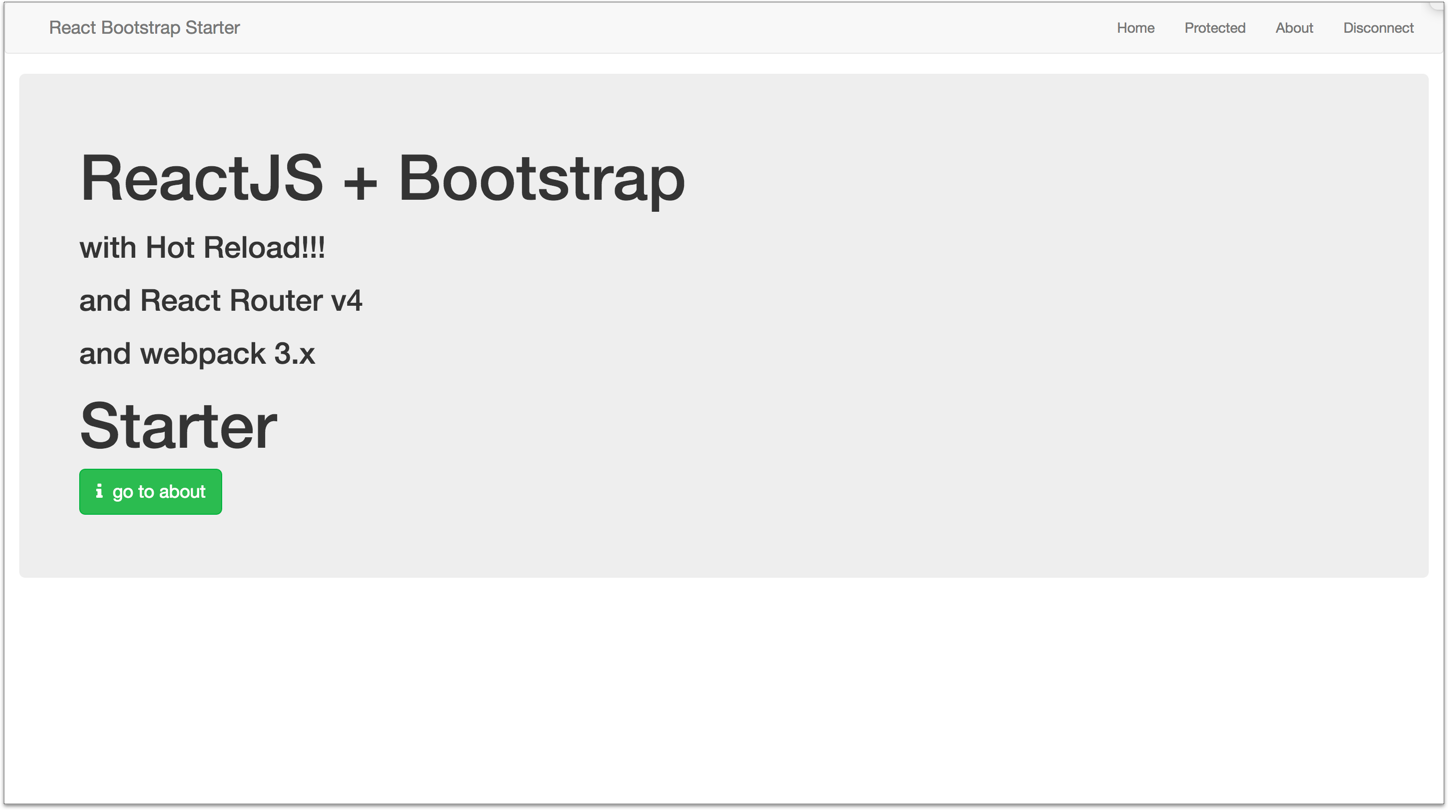
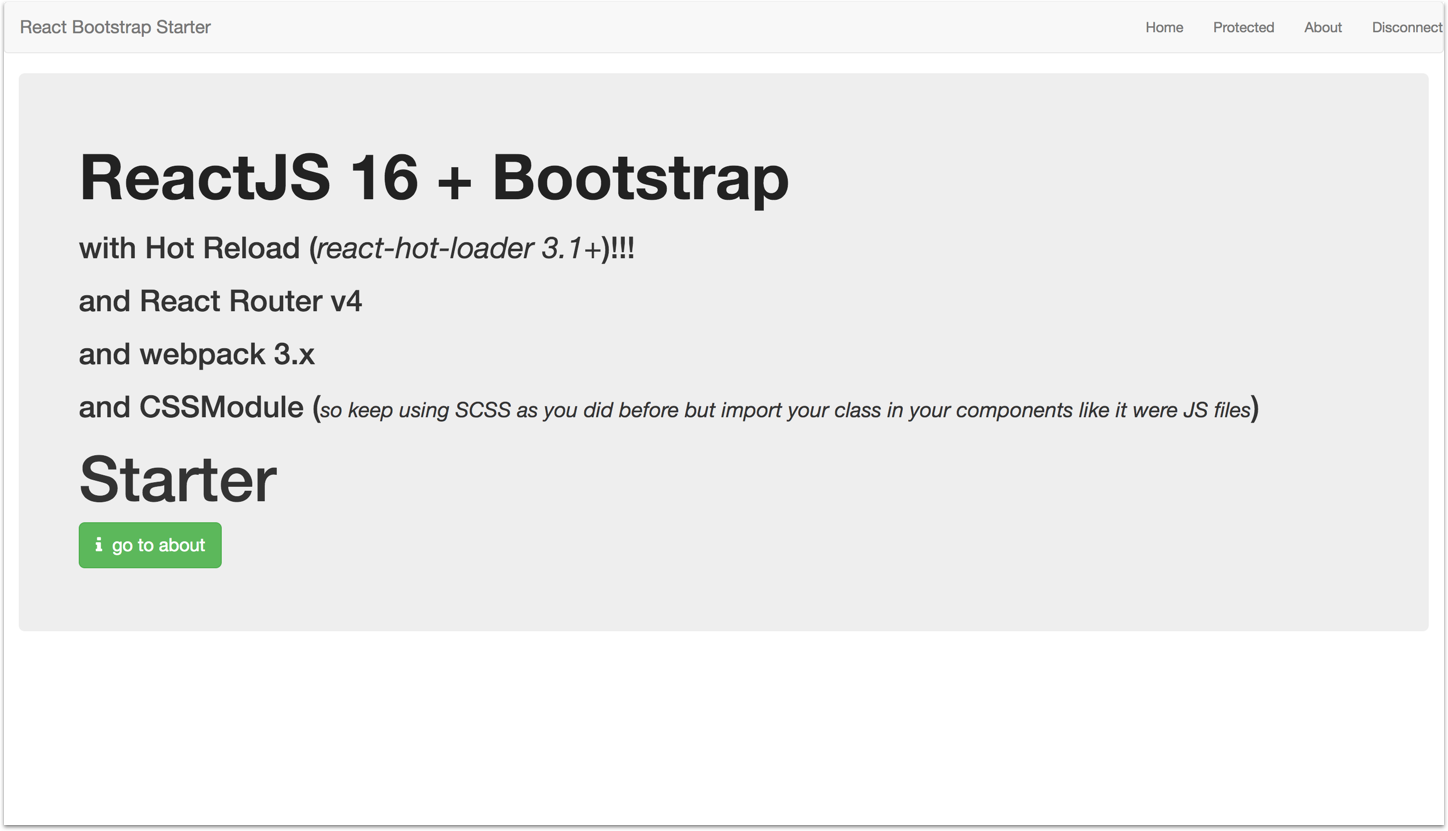
update README

diff --git a/src/app/views/home/Home.js b/src/app/views/home/Home.js
@@ -29,7 +29,7 @@ class Home extends PureComponent {
             <h1
               className={styles.mainTitle}
             >
-              ReactJS + Bootstrap
+              ReactJS 16 + Bootstrap
             </h1>
             <h2>
               with Hot Reload (<i>react-hot-loader 3.1+</i>)!!!

diff --git a/README.md b/README.md
@@ -29,7 +29,7 @@ React 16 Bootstrap webpack 3 with Hot Reload STARTER
 - `react-router 4+` (*read this [nice article about migrating from react-router 3 to react-router 4](https://codeburst.io/react-router-v4-unofficial-migration-guide-5a370b8905a)*)
 - add few flow types (*still keep propTypes*)
 - updated hot reload (*[read hot reload starter](https://gaearon.github.io/react-hot-loader/getstarted/)*)
-- use `CSS module` (*keep coding style with SASS but get benefit css module*)
+- use `CSS module` (*keep coding style with SASS but get benefit of css module for a more peasant coding*)
 
 
 ## HUGE Breaking changes since 3.0.0
